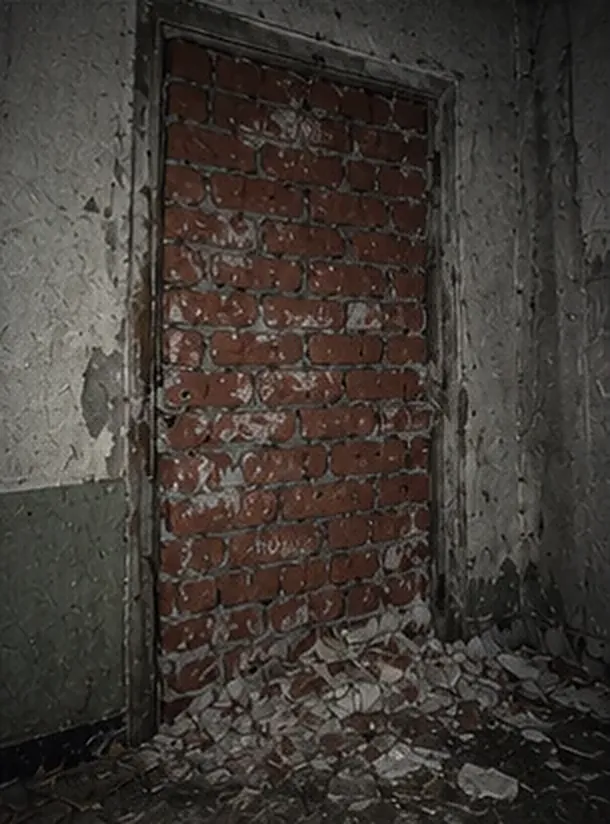
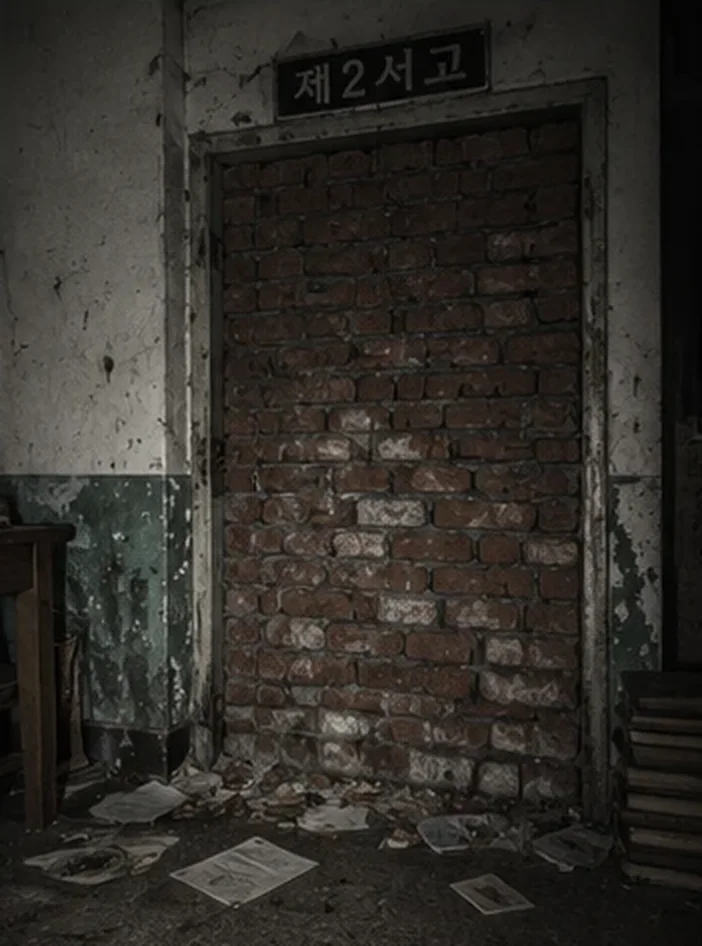
School art: nine new backgrounds for 해원고등학교; lock screen same-minute order
- Creator-generated 3×3 sheet cut into wallpaper, annex-gate (the school
  gate with its name plaque), lobby (shoe lockers, floor directory),
  stairs / stairs-figure, corridor, reading-empty / reading-figure (the
  school library) and room02-door (제2서고, bricked up). The two
  photos that change while you look at them were aligned by searching
  the pixel offset between panels and cut at identical size, so the
  crossfade doesn't jump.
- Lock screen: two notifications in the same minute now show the later
  one on top.

Claude-Session: https://claude.ai/code/session_018dEmZxJwv3RbJFTSBVPWUr

diff --git a/src/phone/LockScreen.tsx b/src/phone/LockScreen.tsx
@@ -25,16 +25,17 @@ export function LockScreen() {
   }, []);
 
   const notifications = useMemo(() => {
-    const out: { th: ThreadId; text: string; time: string; at: number }[] = [];
+    const out: { th: ThreadId; text: string; time: string; at: number; seq: number }[] = [];
     (['unknown', 'dohyun'] as ThreadId[]).forEach((th) => {
       const all = threads[th];
       all.forEach((m, i) => {
         if (i < all.length - 2) return;
-        if (m.from === 'them' && m.day !== '9월 26일 (금)') out.push({ th, text: m.text, time: m.time, at: lastSent(all.slice(0, i + 1)) });
+        if (m.from === 'them' && m.day !== '9월 26일 (금)') out.push({ th, text: m.text, time: m.time, at: lastSent(all.slice(0, i + 1)), seq: i });
       });
     });
     // Newest on top, like a real lock screen.
-    return out.sort((a, b) => b.at - a.at).slice(0, 4);
+    // Same minute: the one that arrived later (later in its thread) goes on top.
+    return out.sort((a, b) => b.at - a.at || b.seq - a.seq).slice(0, 4);
   }, [threads]);
 
   const press = (d: string) => {

diff --git a/src/assets/art/README.md b/src/assets/art/README.md
@@ -10,3 +10,7 @@
 `selfie-alone`은 따로 생성한 것이 아니라 `selfie-far`의 오른쪽(채원 얼굴 부분)만 잘라 420×560으로 맞춘 것입니다. 숨김 앨범 마지막 사진이 점프스케어 전까지 이 사진으로 보이고, 스케어가 끝나면 `selfie-close`로 바뀝니다.
 
 `avatar-unknown`(발신자 표시제한 프로필)은 제작자가 따로 생성한 1254px 이미지를 머리·어깨 중심으로 잘라 256px로 줄였습니다.
+
+4차 시트(학교 배경 9장: wallpaper, annex-gate, lobby, stairs, stairs-figure, corridor, reading-empty, reading-figure, room02-door)는
+무대가 폐교된 해원고등학교로 바뀌면서 제작자가 새로 생성한 3×3 시트를 잘라 2배 확대했습니다. 오래 보면 바뀌는 짝(stairs ↔ stairs-figure,
+reading-empty ↔ reading-figure)은 두 칸의 어긋남을 계산해 같은 크기·같은 위치로 잘라, 바뀔 때 화면이 튀지 않습니다.
